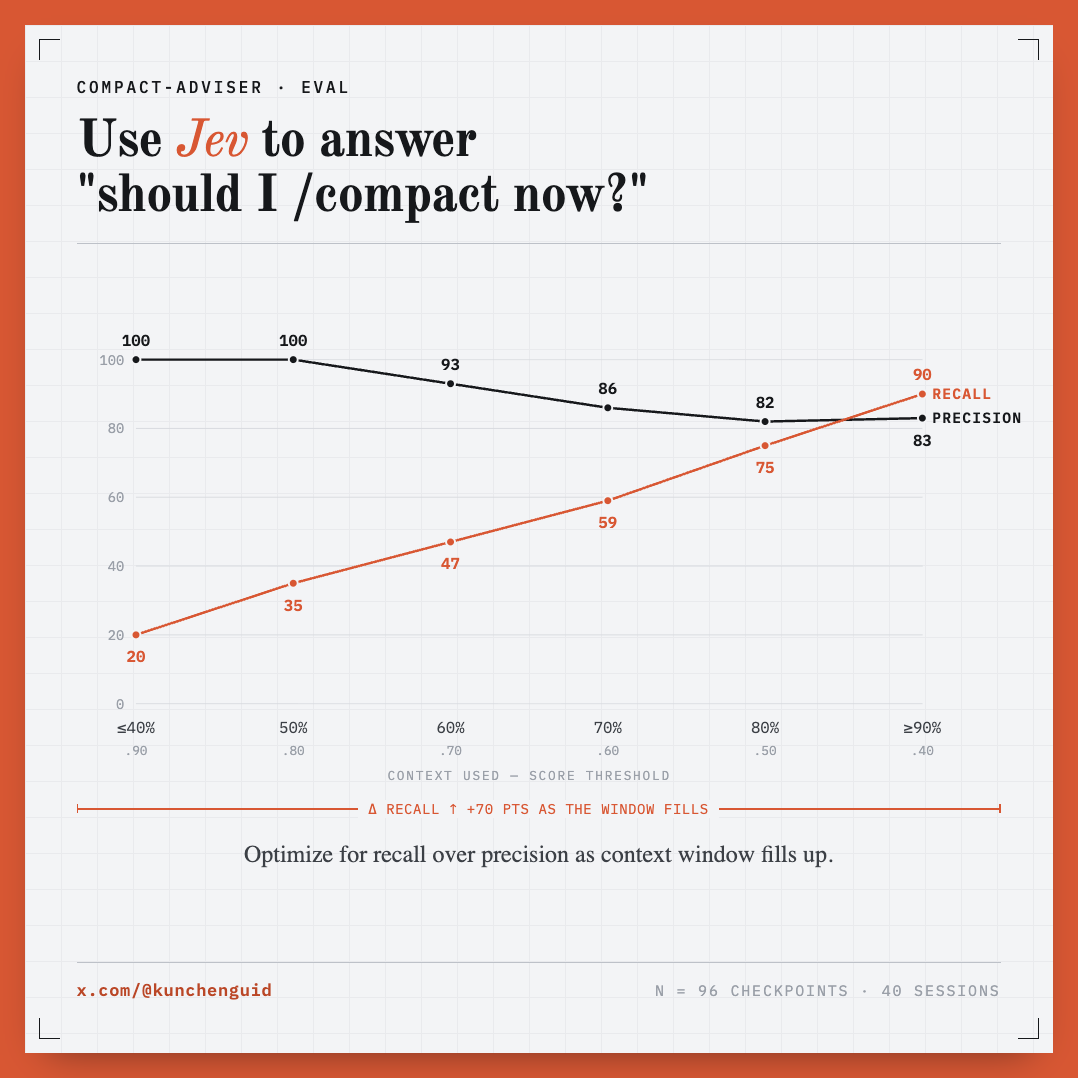
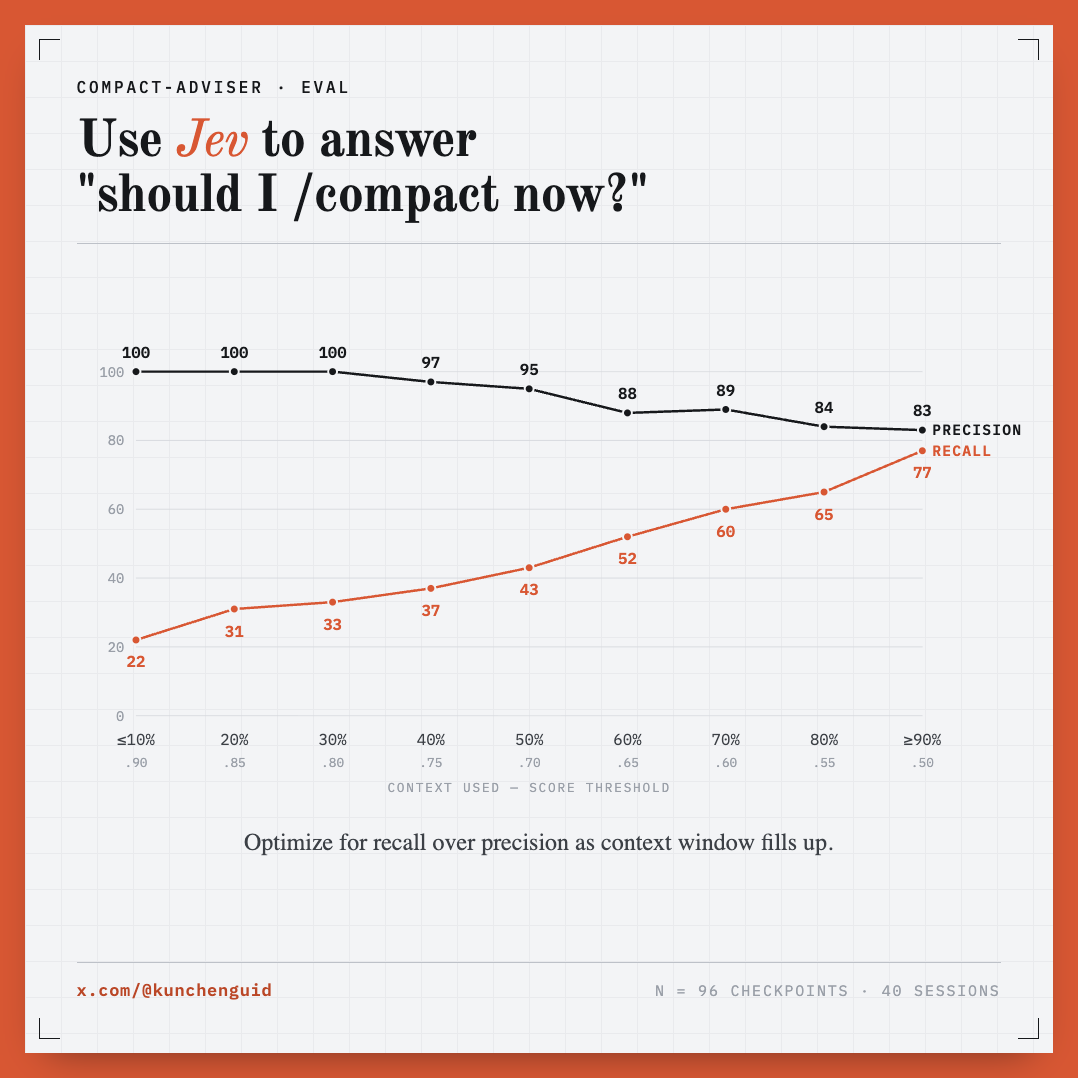
docs: refresh eval chart for 0.90→0.50 usage-floor knee

diff --git a/README.md b/README.md
@@ -30,7 +30,7 @@ It uses [Jev](https://typesafe.ai) to instantly judge whether the current sessio
 
 It can give you a hint to run `/compact` - or, if you opt in, it can run it for you at the right time automatically.
 
-Judgment is two one-sentence Jev questions in one request (is the unit finished; is this hands-on work or coordination), composed in code into one score. The hint floor is 0.90 while the context window is mostly empty and relaxes toward 0.40 as it fills - a wrong hint costs most when there is still room. Automatic mode is the same gate, plus a first-use confirmation.
+Judgment is two one-sentence Jev questions in one request (is the unit finished; is this hands-on work or coordination), composed in code into one score. The hint floor is 0.90 while the context window is mostly empty (through about 10%) and relaxes toward 0.50 by about 90% full - a wrong hint costs most when there is still room. Automatic mode is the same gate, plus a first-use confirmation.
 
 ## Quick Start
 
@@ -94,7 +94,7 @@ settled turn
 └─────────┬─────────┘
           ▼
 ┌───────────────────┐
-│ TypeSafe Jev      │  done × shape score, floor slides 0.90→0.40 with usage
+│ TypeSafe Jev      │  done × shape score, floor slides 0.90→0.50 with usage
 └─────────┬─────────┘
           ▼
  hint: run /compact     or, with explicit auto, native compaction
@@ -112,9 +112,9 @@ settled turn
 
 ## Eval
 
-Local judgment eval uses real session checkpoints to score when the adviser should suggest `/compact`. The curve below is from a follow-up-aware gold set (96 checkpoints, 40 sessions): as the context window fills, the score threshold loosens so **recall rises** while precision stays high—favoring token savings when compaction is about to be forced anyway.
+Local judgment eval uses real session checkpoints to score when the adviser should suggest `/compact`. The curve below is from a follow-up-aware gold set (96 checkpoints, 40 sessions): as the context window fills, the score threshold loosens from **0.90** (≤10% used) to **0.50** (≥90% used) so **recall rises** while precision stays high - favoring token savings when compaction is about to be forced anyway.
 
-![Use Jev to answer "should I /compact now?" — precision stays high while recall rises as context used goes from ≤40% to ≥90%](docs/eval-usage-floor-curve.png)
+![Use Jev to answer "should I /compact now?" — precision stays high while recall rises as context used goes from ≤10% to ≥90%](docs/eval-usage-floor-curve.png)
 
 The judgment-eval harness lives in [packages/pi-extension/eval/](packages/pi-extension/eval/README.md). It is not a published dataset: point it at your own sessions and keep transcripts local.
 
